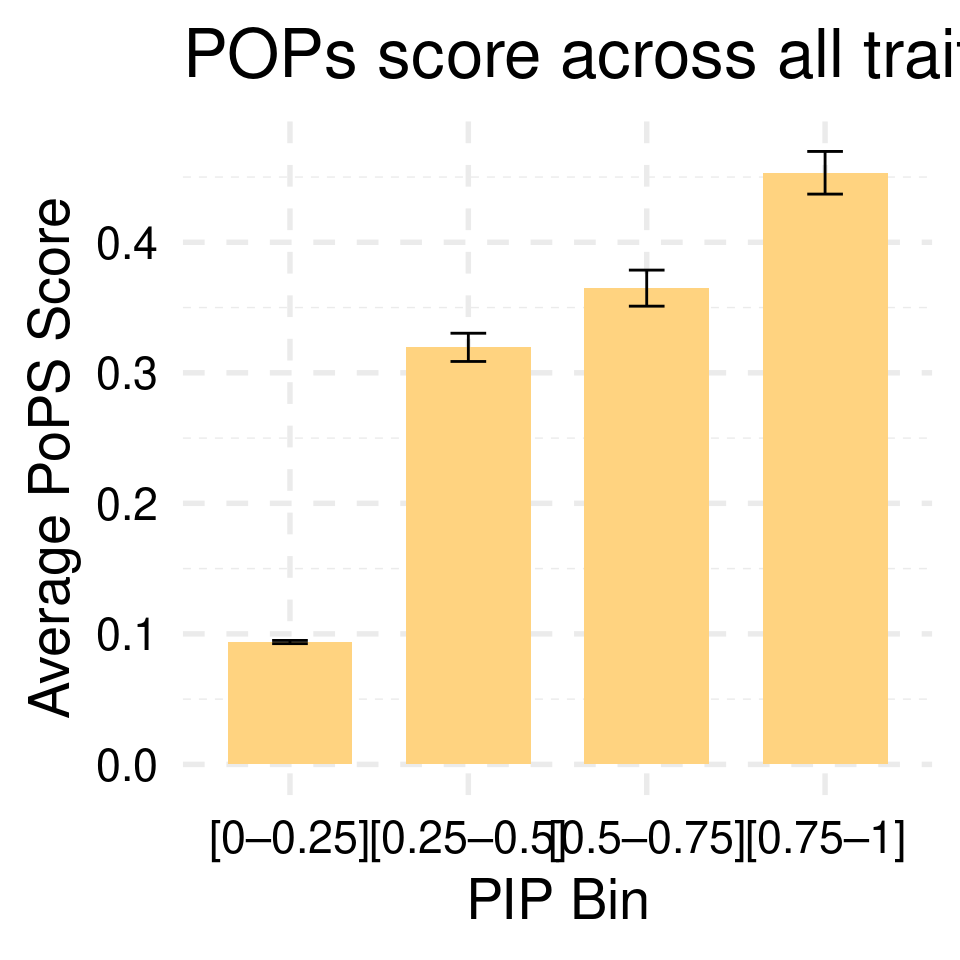
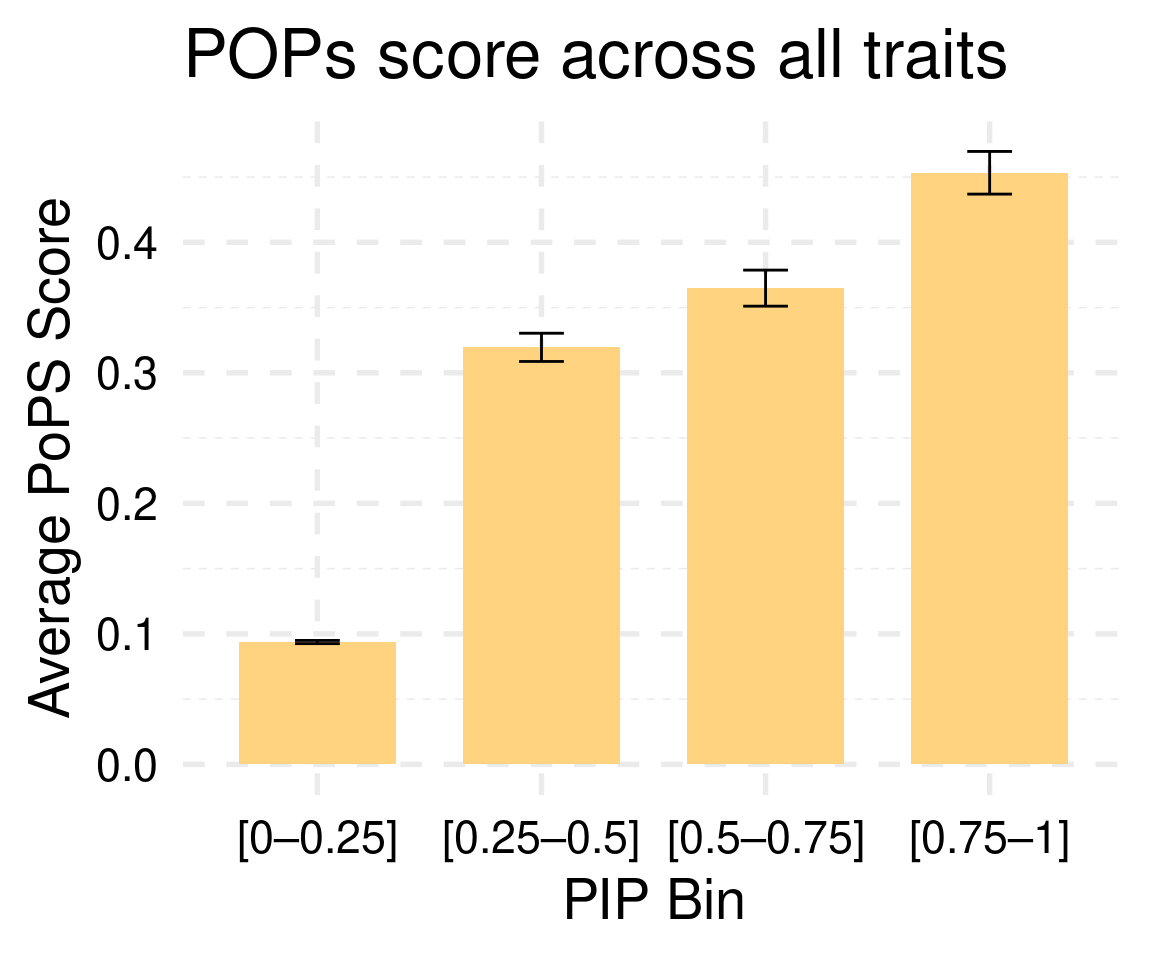
update

diff --git a/docs/ctwas_paper_figures.html b/docs/ctwas_paper_figures.html
@@ -521,15 +521,15 @@ project makes it easier to run your code on other machines.</p>
 <div class="panel panel-default">
 <div class="panel-heading">
 <p class="panel-title">
-<a data-toggle="collapse" data-parent="#workflowr-checks" href="#strongRepositoryversionstrongahrefhttpsgithubcomsq96multigroupctwasanalysistree564fb146cccff68304762749defd3596f0780009targetblank564fb14a">
+<a data-toggle="collapse" data-parent="#workflowr-checks" href="#strongRepositoryversionstrongahrefhttpsgithubcomsq96multigroupctwasanalysistree7a3045aea92b5ba21b2161b3ca9e2712bb09987atargetblank7a3045aa">
 <span class="glyphicon glyphicon-ok text-success"
 aria-hidden="true"></span> <strong>Repository version:</strong>
-<a href="https://github.com/sq-96/multigroup_ctwas_analysis/tree/564fb146cccff68304762749defd3596f0780009" target="_blank">564fb14</a>
+<a href="https://github.com/sq-96/multigroup_ctwas_analysis/tree/7a3045aea92b5ba21b2161b3ca9e2712bb09987a" target="_blank">7a3045a</a>
 </a>
 </p>
 </div>
 <div
[2 lines of base64/hex data omitted]
 class="panel-collapse collapse">
 <div class="panel-body">
 <p>
@@ -539,7 +539,7 @@ reproducibility.
 </p>
 <p>
 The results in this page were generated with repository version
-<a href="https://github.com/sq-96/multigroup_ctwas_analysis/tree/564fb146cccff68304762749defd3596f0780009" target="_blank">564fb14</a>.
+<a href="https://github.com/sq-96/multigroup_ctwas_analysis/tree/7a3045aea92b5ba21b2161b3ca9e2712bb09987a" target="_blank">7a3045a</a>.
 See the <em>Past versions</em> tab to see a history of the changes made
 to the R Markdown and HTML files.
 </p>
@@ -600,6 +600,40 @@ Message
 </tr>
 </thead>
 <tbody>
+<tr>
+<td>
+Rmd
+</td>
+<td>
+<a href="https://github.com/sq-96/multigroup_ctwas_analysis/blob/7a3045aea92b5ba21b2161b3ca9e2712bb09987a/analysis/ctwas_paper_figures.Rmd" target="_blank">7a3045a</a>
+</td>
+<td>
+sq-96
+</td>
+<td>
+2025-09-19
+</td>
+<td>
+update
+</td>
+</tr>
+<tr>
+<td>
+html
+</td>
+<td>
+<a href="https://rawcdn.githack.com/sq-96/multigroup_ctwas_analysis/7a3045aea92b5ba21b2161b3ca9e2712bb09987a/docs/ctwas_paper_figures.html" target="_blank">7a3045a</a>
+</td>
+<td>
+sq-96
+</td>
+<td>
+2025-09-19
+</td>
+<td>
+update
+</td>
+</tr>
 <tr>
 <td>
 Rmd
@@ -3962,6 +3996,17 @@ Date
 <tbody>
 <tr>
 <td>
+<a href="https://github.com/sq-96/multigroup_ctwas_analysis/blob/7a3045aea92b5ba21b2161b3ca9e2712bb09987a/docs/figure/ctwas_paper_figures.Rmd/unnamed-chunk-17-1.png" target="_blank">7a3045a</a>
+</td>
+<td>
+sq-96
+</td>
+<td>
+2025-09-19
+</td>
+</tr>
+<tr>
+<td>
 <a href="https://github.com/sq-96/multigroup_ctwas_analysis/blob/4c0a40902aea6c1441a63688d4cc41653f9ddcd1/docs/figure/ctwas_paper_figures.Rmd/unnamed-chunk-17-1.png" target="_blank">4c0a409</a>
 </td>
 <td>
@@ -4212,6 +4257,17 @@ Date
 <tbody>
 <tr>
 <td>
+<a href="https://github.com/sq-96/multigroup_ctwas_analysis/blob/7a3045aea92b5ba21b2161b3ca9e2712bb09987a/docs/figure/ctwas_paper_figures.Rmd/unnamed-chunk-19-1.png" target="_blank">7a3045a</a>
+</td>
+<td>
+sq-96
+</td>
+<td>
+2025-09-19
+</td>
+</tr>
+<tr>
+<td>
 <a href="https://github.com/sq-96/multigroup_ctwas_analysis/blob/e970ae505b35a884d44c73532e24f76011a53336/docs/figure/ctwas_paper_figures.Rmd/unnamed-chunk-19-1.png" target="_blank">e970ae5</a>
 </td>
 <td>
@@ -4383,6 +4439,17 @@ Date
 </tr>
 </thead>
 <tbody>
+<tr>
+<td>
+<a href="https://github.com/sq-96/multigroup_ctwas_analysis/blob/7a3045aea92b5ba21b2161b3ca9e2712bb09987a/docs/figure/ctwas_paper_figures.Rmd/unnamed-chunk-20-1.png" target="_blank">7a3045a</a>
+</td>
+<td>
+sq-96
+</td>
+<td>
+2025-09-19
+</td>
+</tr>
 <tr>
 <td>
 <a href="https://github.com/sq-96/multigroup_ctwas_analysis/blob/564fb146cccff68304762749defd3596f0780009/docs/figure/ctwas_paper_figures.Rmd/unnamed-chunk-20-1.png" target="_blank">564fb14</a>
@@ -4814,7 +4881,7 @@ sq-96
 class="section level3">
 <h3>Figure 4b: M-cTWAS identified genes with higher POPS scores</h3>
 <p>Averaged POPS scores across all traits stratified by M-cTWAS PIPs
-<img src="figure/ctwas_paper_figures.Rmd/fig.height6-1.png" width="480" style="display: block; margin: auto;" /></p>
+<img src="figure/ctwas_paper_figures.Rmd/fig.height6-1.png" width="576" style="display: block; margin: auto;" /></p>
 <p>
 <button type="button" class="btn btn-default btn-xs btn-workflowr btn-workflowr-fig" data-toggle="collapse" data-target="#fig-fig.height6-1">
 Past versions of fig.height6-1.png
@@ -4839,6 +4906,17 @@ Date
 <tbody>
 <tr>
 <td>
+<a href="https://github.com/sq-96/multigroup_ctwas_analysis/blob/7a3045aea92b5ba21b2161b3ca9e2712bb09987a/docs/figure/ctwas_paper_figures.Rmd/fig.height6-1.png" target="_blank">7a3045a</a>
+</td>
+<td>
+sq-96
+</td>
+<td>
+2025-09-19
+</td>
+</tr>
+<tr>
+<td>
 <a href="https://github.com/sq-96/multigroup_ctwas_analysis/blob/564fb146cccff68304762749defd3596f0780009/docs/figure/ctwas_paper_figures.Rmd/fig.height6-1.png" target="_blank">564fb14</a>
 </td>
 <td>
@@ -4856,7 +4934,7 @@ sq-96
 <div id="figure-4c-validation-with-silver-standand-genes"
 class="section level3">
 <h3>Figure 4c: Validation with Silver Standand Genes</h3>
-<p><img src="figure/ctwas_paper_figures.Rmd/unnamed-chunk-28-1.png" width="480" style="display: block; margin: auto;" /></p>
+<p><img src="figure/ctwas_paper_figures.Rmd/unnamed-chunk-28-1.png" width="576" style="display: block; margin: auto;" /></p>
 <p>
 <button type="button" class="btn btn-default btn-xs btn-workflowr btn-workflowr-fig" data-toggle="collapse" data-target="#fig-unnamed-chunk-28-1">
 Past versions of unnamed-chunk-28-1.png
@@ -4879,6 +4957,17 @@ Date
 </tr>
 </thead>
 <tbody>
+<tr>
+<td>
+<a href="https://github.com/sq-96/multigroup_ctwas_analysis/blob/7a3045aea92b5ba21b2161b3ca9e2712bb09987a/docs/figure/ctwas_paper_figures.Rmd/unnamed-chunk-28-1.png" target="_blank">7a3045a</a>
+</td>
+<td>
+sq-96
+</td>
+<td>
+2025-09-19
+</td>
+</tr>
 <tr>
 <td>
 <a href="https://github.com/sq-96/multigroup_ctwas_analysis/blob/564fb146cccff68304762749defd3596f0780009/docs/figure/ctwas_paper_figures.Rmd/unnamed-chunk-28-1.png" target="_blank">564fb14</a>
@@ -5591,6 +5680,17 @@ Date
 </tr>
 </thead>
 <tbody>
+<tr>
+<td>
+<a href="https://github.com/sq-96/multigroup_ctwas_analysis/blob/7a3045aea92b5ba21b2161b3ca9e2712bb09987a/docs/figure/ctwas_paper_figures.Rmd/unnamed-chunk-39-1.png" target="_blank">7a3045a</a>
+</td>
+<td>
+sq-96
+</td>
+<td>
+2025-09-19
+</td>
+</tr>
 <tr>
 <td>
 <a href="https://github.com/sq-96/multigroup_ctwas_analysis/blob/564fb146cccff68304762749defd3596f0780009/docs/figure/ctwas_paper_figures.Rmd/unnamed-chunk-39-1.png" target="_blank">564fb14</a>
